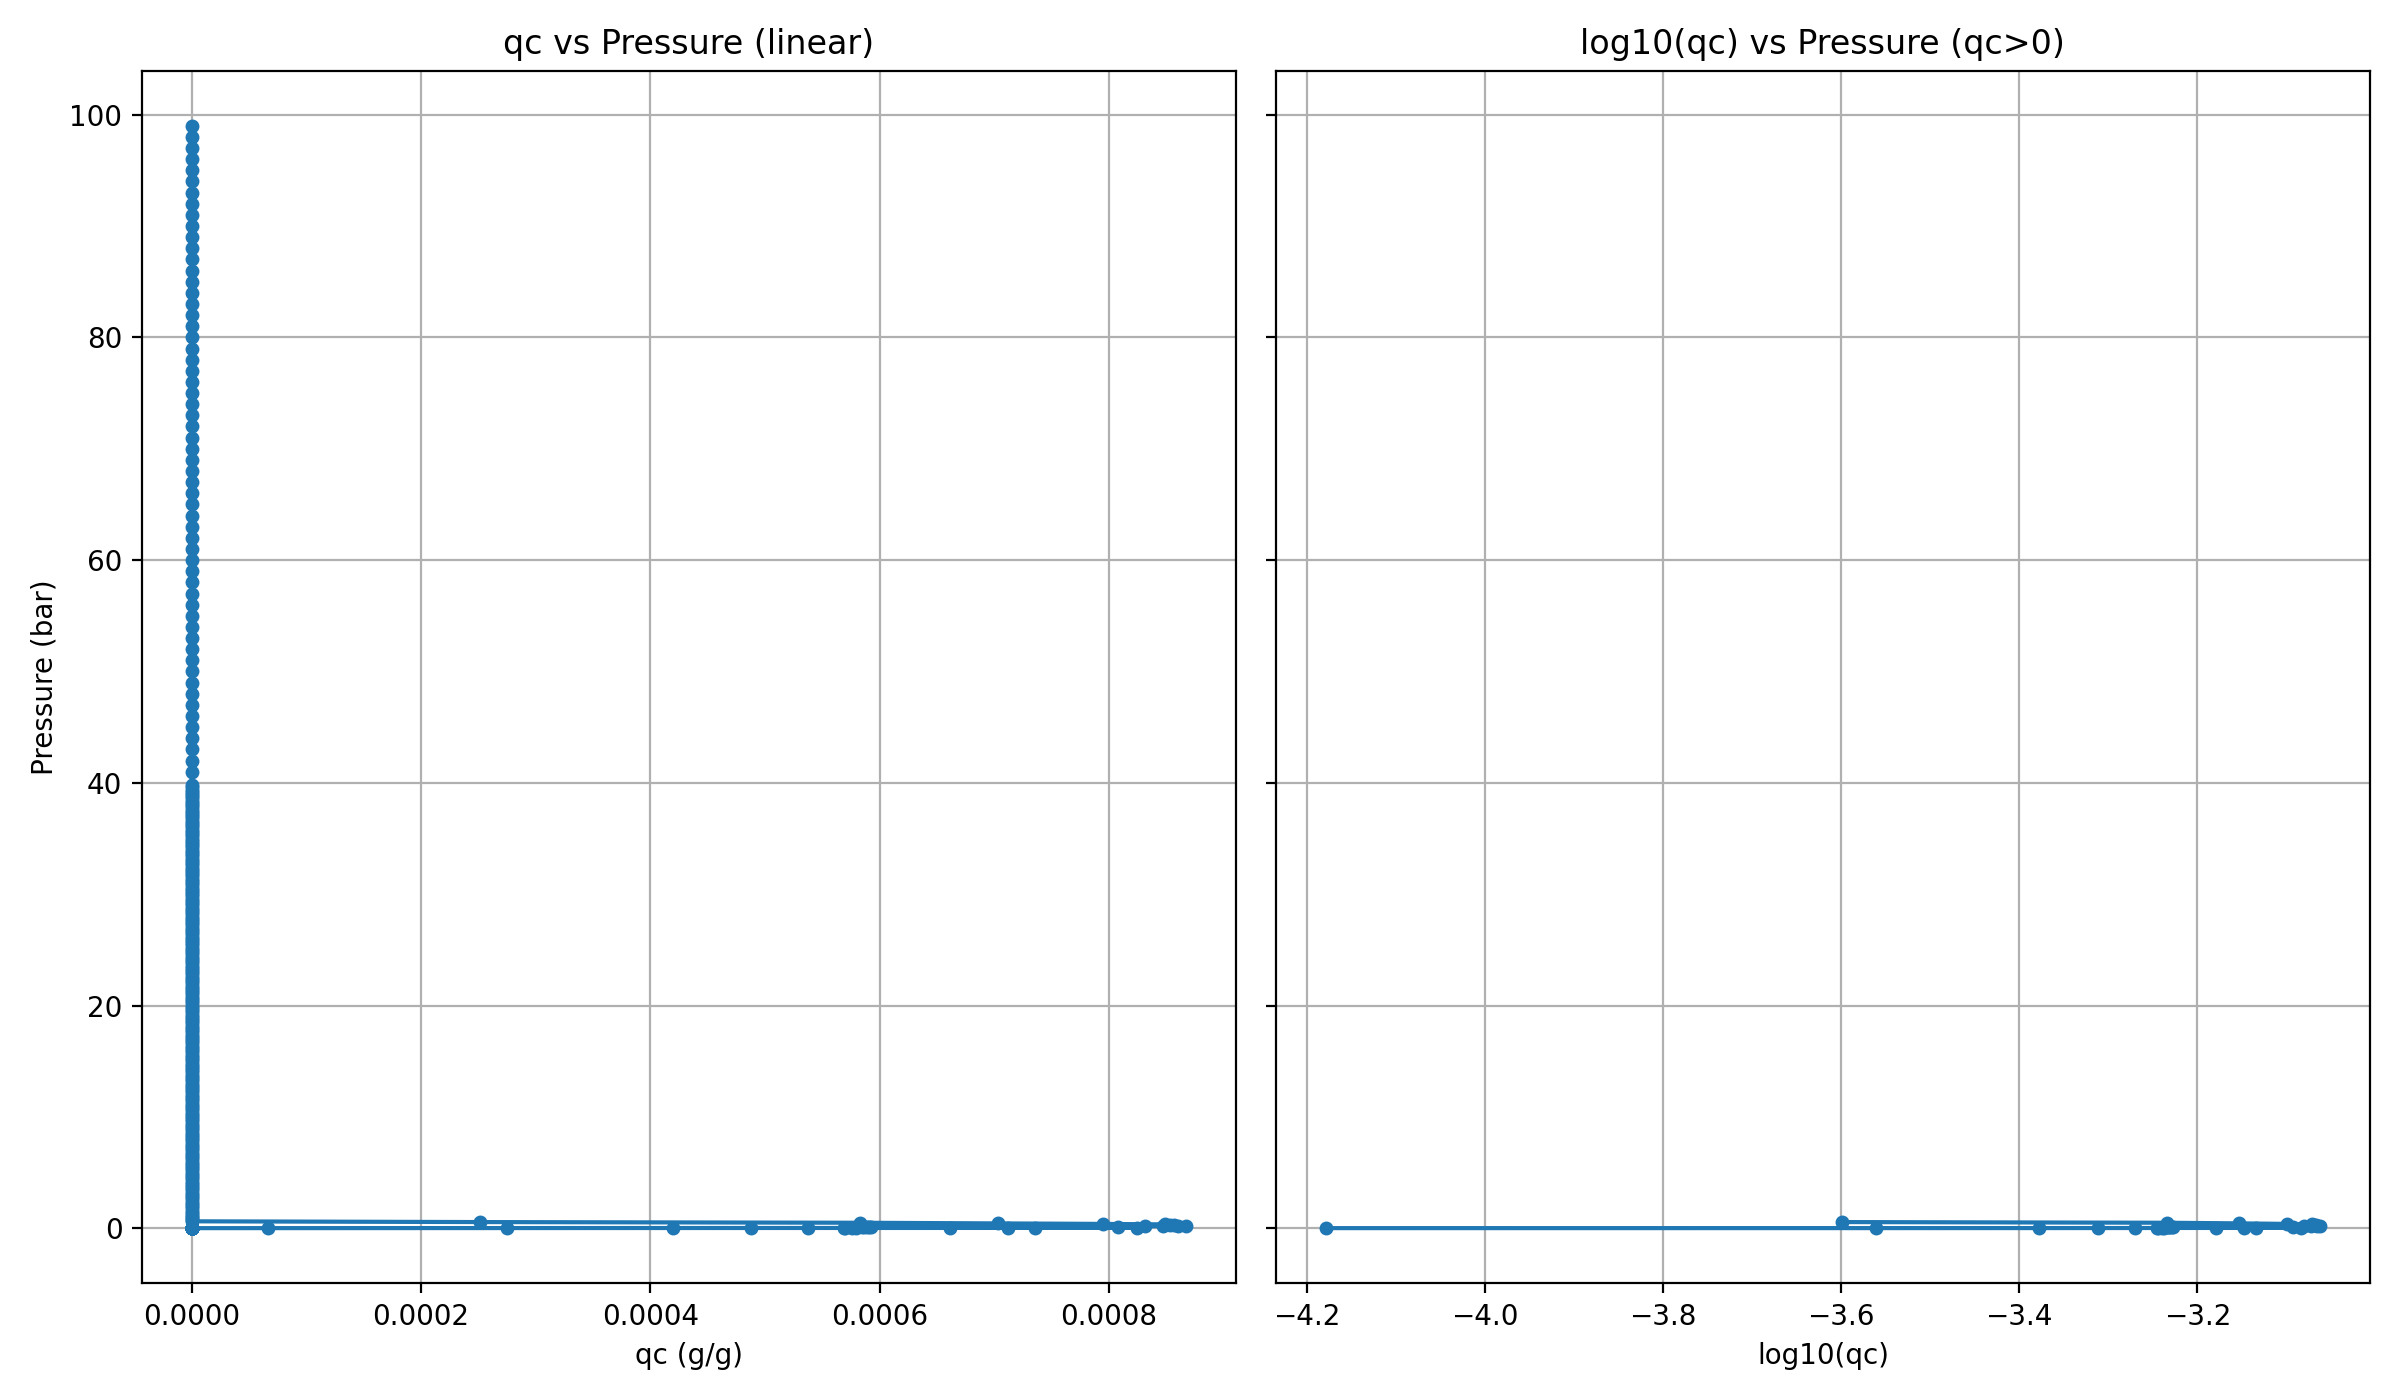
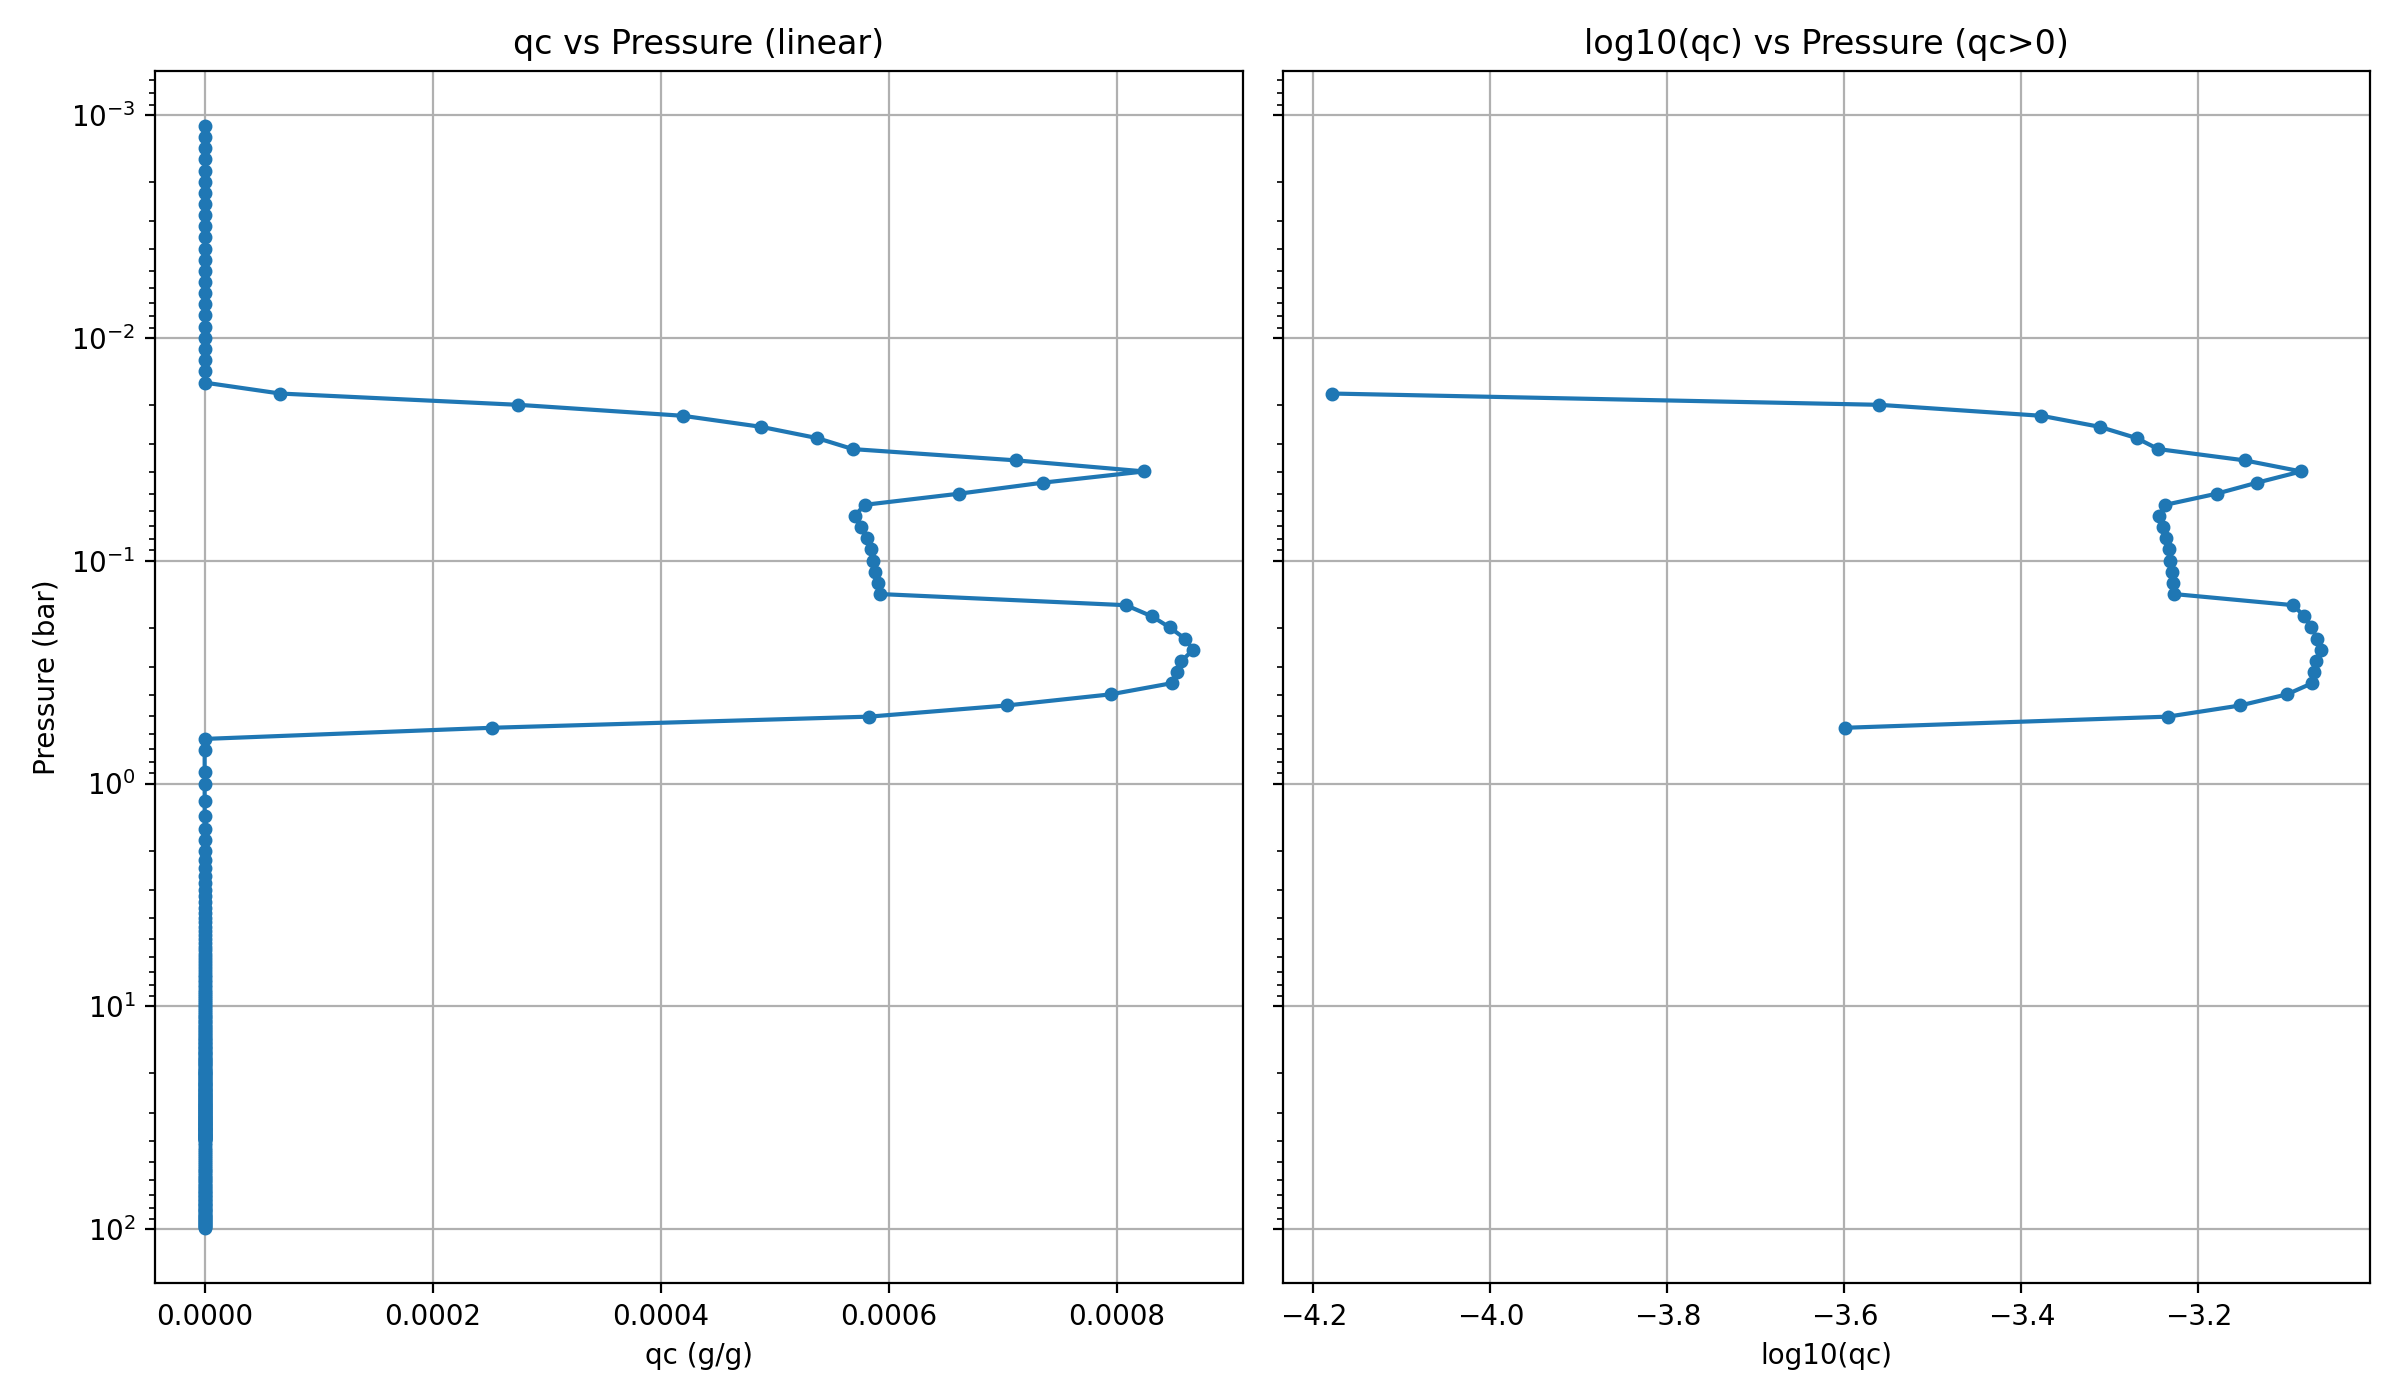
modifications for 23rd august

diff --git a/python_v2/plot__for ylim.py b/python_v2/plot__for ylim.py
@@ -1,4 +1,3 @@
-# plot_voyager.py
 import numpy as np
 import matplotlib.pyplot as plt
 
@@ -24,12 +23,17 @@ def read_voyager(fname):
 def main():
     p_bar, qc = read_voyager(INPUT)
 
-    # Sort by pressure (just in case). Many profiles are top->bottom or bottom->top.
-    order = np.argsort(p_bar)   # ascending pressure
+    # Sort by pressure (just in case).
+    order = np.argsort(p_bar)
     p_bar = p_bar[order]
     qc = qc[order]
 
-    # Prepare masked log10(qc) (mask zeros and negative values)
+    # Apply mask: only keep 0.1 <= p <= 1 bar
+    mask = (p_bar >= 0.1) & (p_bar <= 1.0)
+    p_bar = p_bar[mask]
+    qc = qc[mask]
+
+    # Prepare masked log10(qc) (mask zeros and negatives)
     qc_positive = qc > 0.0
     logqc = np.full_like(qc, np.nan)
     logqc[qc_positive] = np.log10(qc[qc_positive])
@@ -40,7 +44,8 @@ def main():
     ax = axes[0]
     ax.plot(qc, p_bar, marker='o', linestyle='-', markersize=4)
     ax.invert_yaxis()
-    ax.set_yscale('log')  # log scale for pressure
+    ax.set_yscale('log')
+    ax.set_ylim(1.0, 0.1)  # restrict y-axis between 0.1 and 1 bar
     ax.set_xlabel('qc (g/g)')
     ax.set_ylabel('Pressure (bar)')
     ax.set_title('qc vs Pressure (linear)')
@@ -53,16 +58,18 @@ def main():
                 markersize=4)
         ax.set_xlabel('log10(qc)')
         ax.set_title('log10(qc) vs Pressure (qc>0)')
+        ax.set_ylim(1.0, 0.1)
+        ax.set_yscale('log')
     else:
-        ax.text(0.5, 0.5, 'No positive qc values to plot (all zeros)', ha='center')
+        ax.text(0.5, 0.5, 'No positive qc values in range (0.1–1 bar)', ha='center')
         ax.set_xlabel('log10(qc)')
         ax.set_title('log10(qc) vs Pressure')
     
     ax.grid(True)
 
     plt.tight_layout()
-    plt.savefig("voyager_qc_profile.png", dpi=200)
-    print("Saved figure to voyager_qc_profile.png")
+    plt.savefig("voyager_qc_profile_masked.png", dpi=200)
+    print("Saved figure to voyager_qc_profile_masked.png")
     plt.show()
 
 if __name__ == "__main__":
